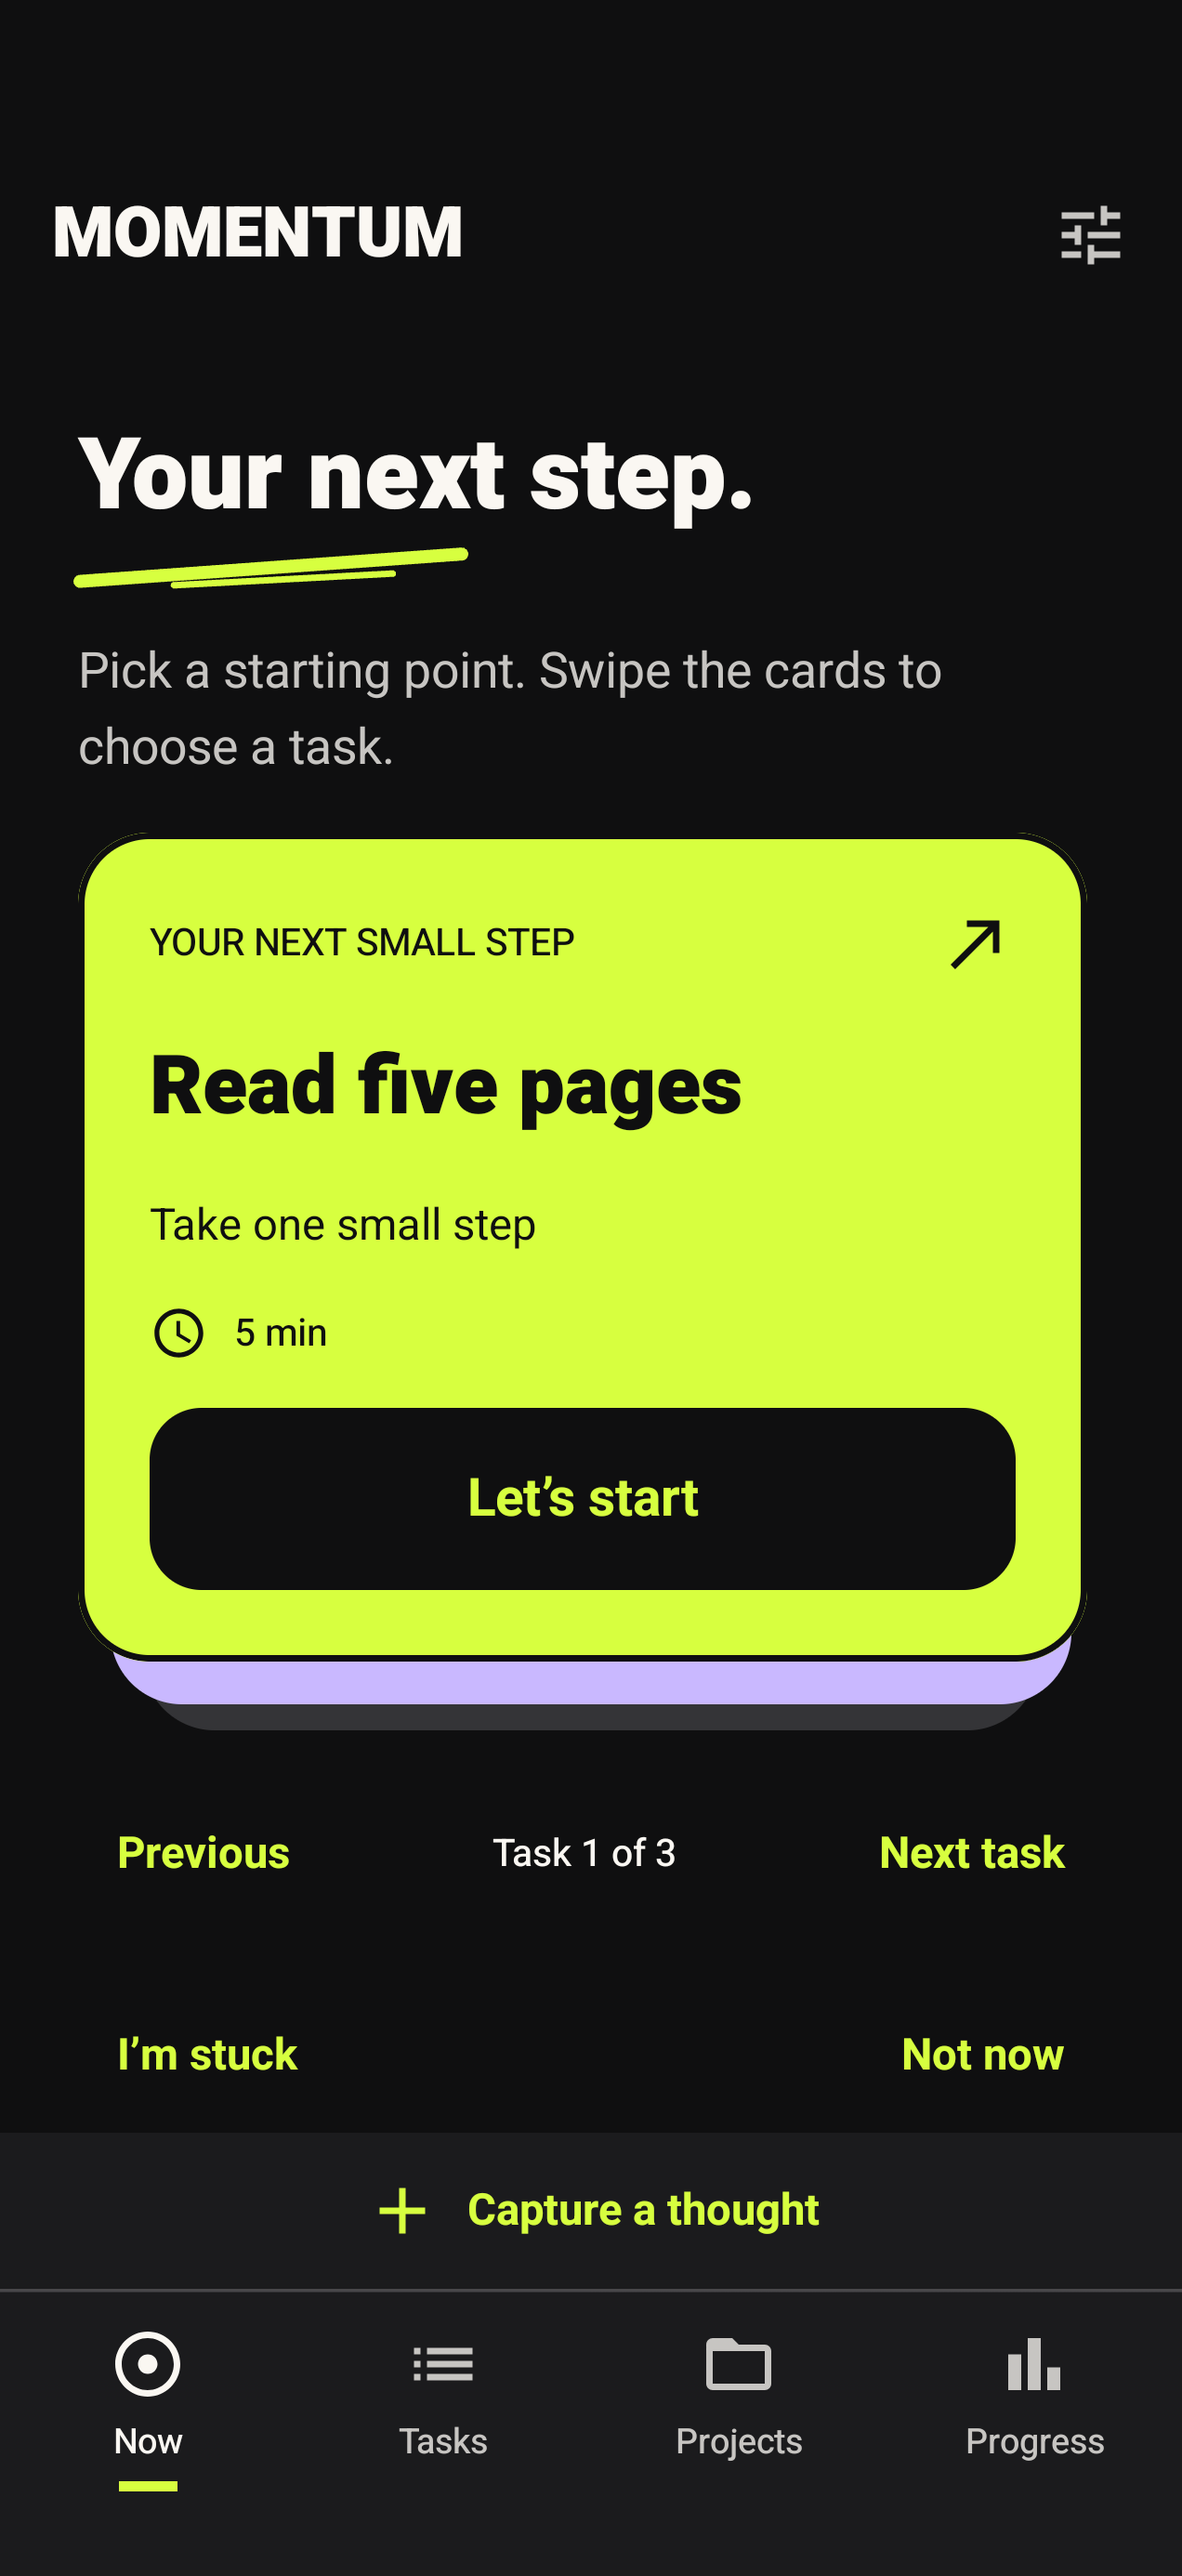
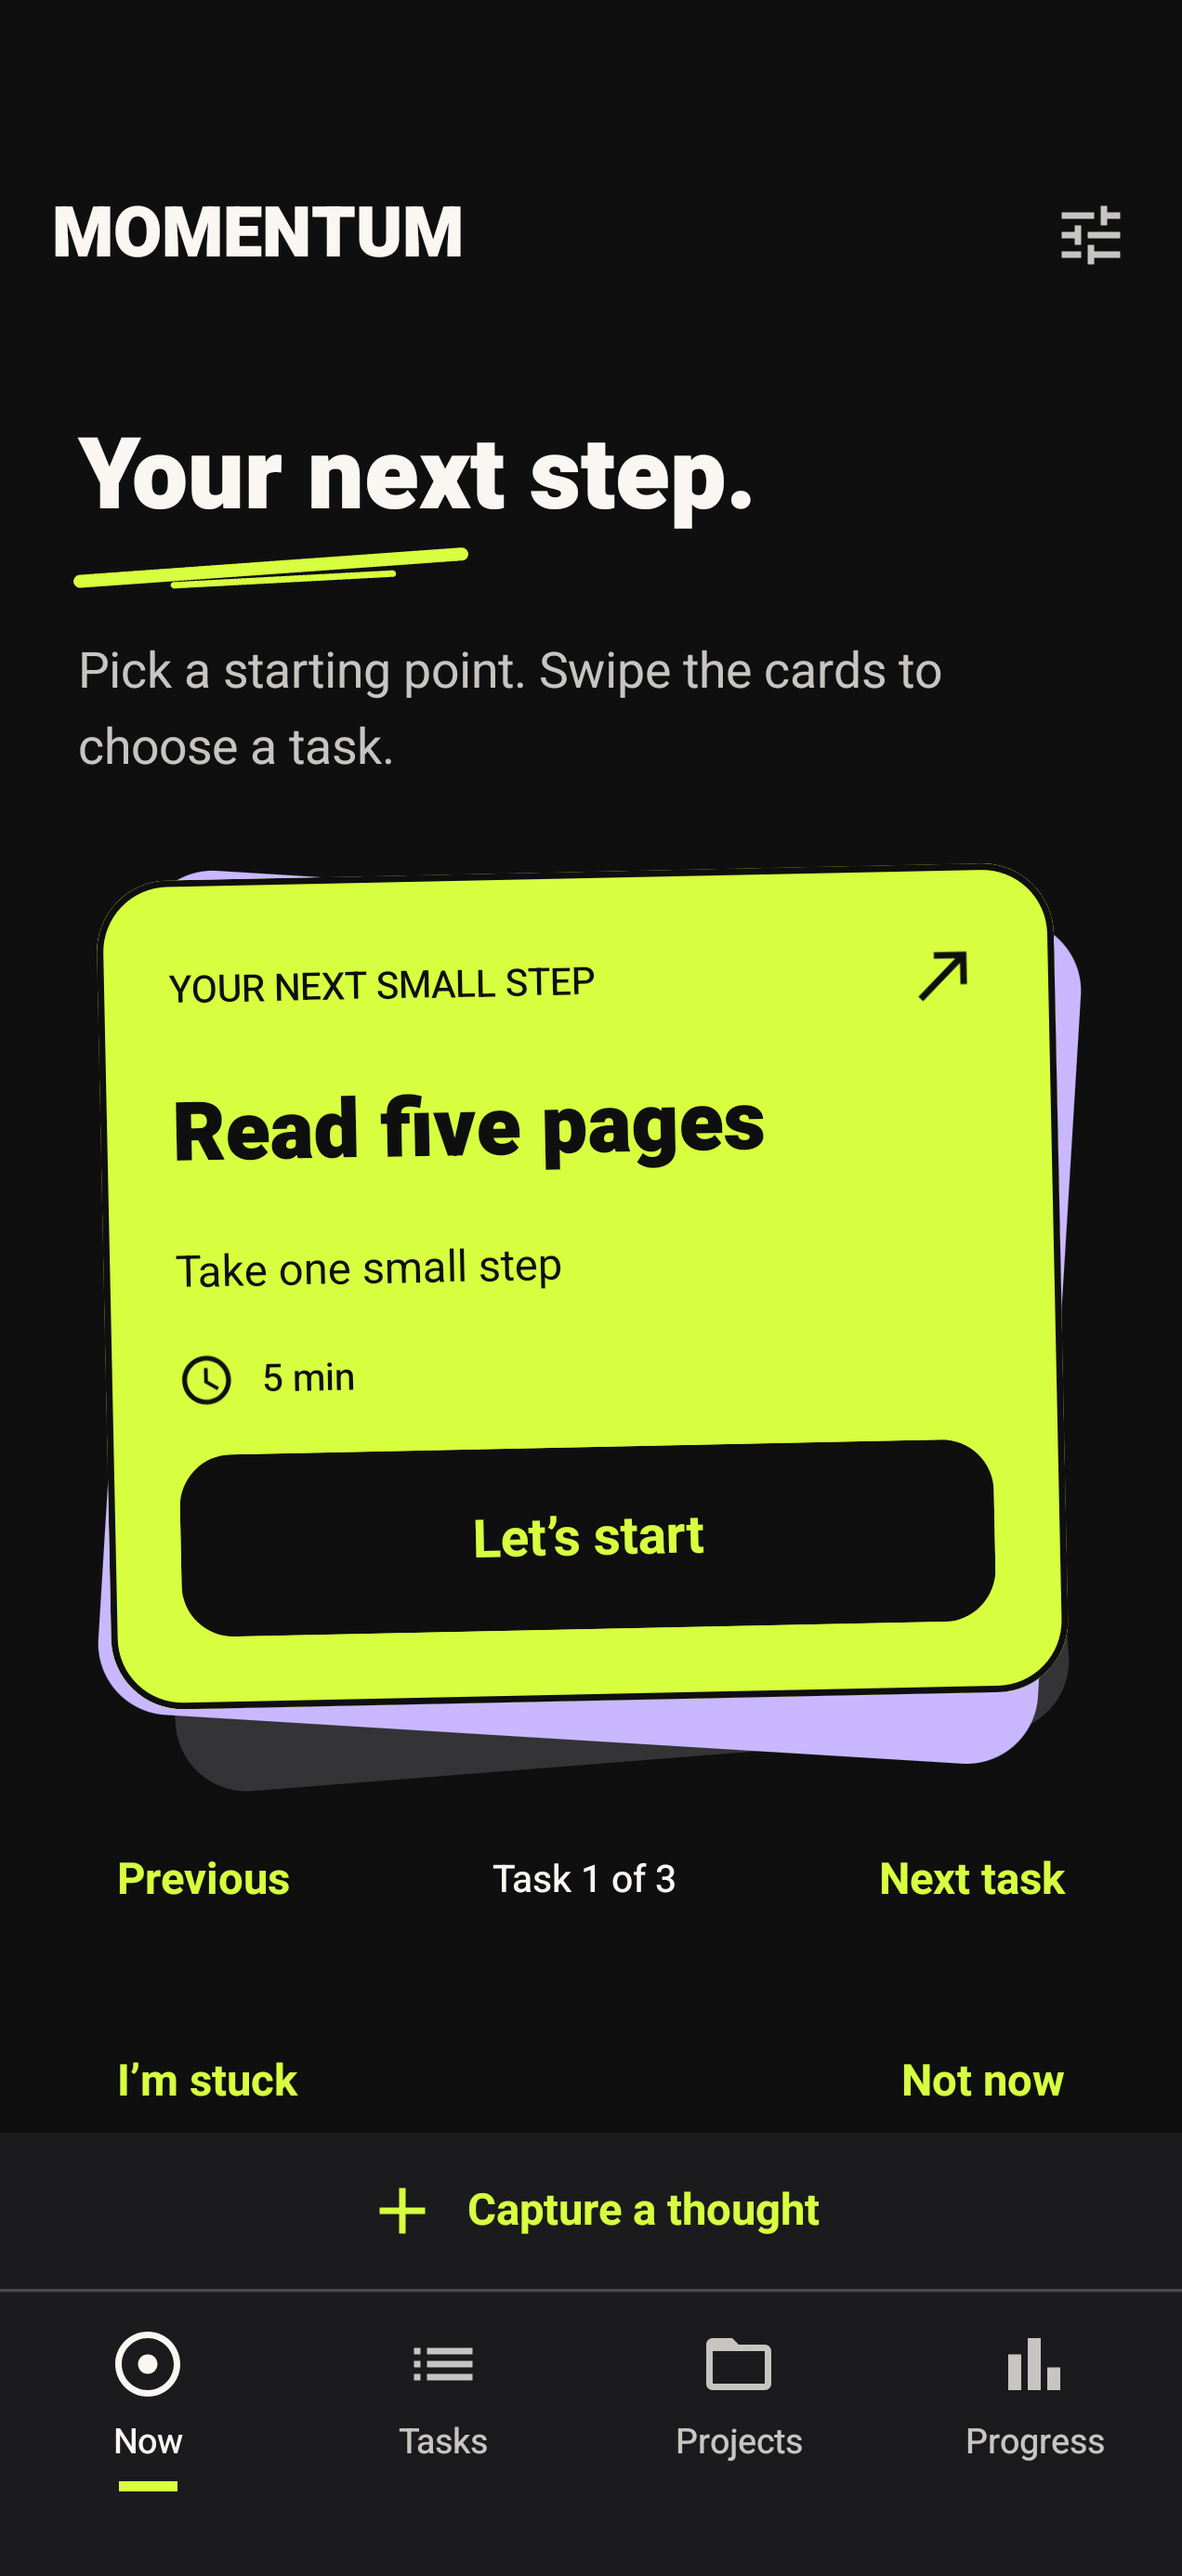
Add tilted cards with finger-following stack transitions

diff --git a/app/src/main/java/com/momentum/app/NowScreen.kt b/app/src/main/java/com/momentum/app/NowScreen.kt
@@ -1,5 +1,9 @@
 package com.momentum.app
 import androidx.compose.animation.*
+import androidx.compose.animation.core.*
+import androidx.compose.ui.graphics.graphicsLayer
+import androidx.compose.ui.graphics.drawscope.rotate
+import androidx.compose.ui.layout.onSizeChanged
 import androidx.compose.foundation.*
 import androidx.compose.foundation.gestures.detectHorizontalDragGestures
 import androidx.compose.ui.input.pointer.pointerInput
@@ -70,7 +74,13 @@ import java.time.LocalTime
  var selectedTaskId by rememberSaveable {mutableStateOf<String?>(null)}
  val deckIndex=deck.indexOfFirst{it.id==selectedTaskId}.coerceAtLeast(0)
  val primary=deck.getOrNull(deckIndex)
- fun nextCard(delta:Int){if(deck.isNotEmpty())selectedTaskId=deck[(deckIndex+delta+deck.size)%deck.size].id}
+ var slideDirection by remember {mutableIntStateOf(1)}
+ var dragOffset by remember {mutableFloatStateOf(0f)}
+ var dragging by remember {mutableStateOf(false)}
+ var stackWidth by remember {mutableFloatStateOf(1f)}
+ val visualDrag by animateFloatAsState(if(prefs.reducedMotion)0f else dragOffset,animationSpec=if(dragging || prefs.reducedMotion)snap() else spring(dampingRatio=.8f,stiffness=500f),label="card follows finger")
+ fun nextCard(delta:Int){if(deck.isNotEmpty()){slideDirection=delta;selectedTaskId=deck[(deckIndex+delta+deck.size)%deck.size].id}}
+ LaunchedEffect(primary?.id){dragOffset=0f;dragging=false}
  val direction=LocalLayoutDirection.current
  val threshold=with(LocalDensity.current){60.dp.toPx()}
  val stackColor=MaterialTheme.colorScheme.secondaryContainer
@@ -79,18 +89,29 @@ import java.time.LocalTime
  Page(spacing=14.dp) {
   Column {Text(tr(R.string.home_heading),style=MaterialTheme.typography.headlineLarge);InkUnderline()}
   Text(tr(when{tasks.isEmpty()->R.string.home_empty_intro;deck.size>1->R.string.stack_intro;resume?.task?.id==primary?.id && resume!=null->R.string.home_resume_intro;primary!=null->R.string.home_ready_intro;else->R.string.home_choose_intro}),color=MaterialTheme.colorScheme.onSurfaceVariant)
-  Box(Modifier.fillMaxWidth().testTag("starterStack").padding(bottom=if(deck.size>1)16.dp else 0.dp).drawBehind{
+  Box(Modifier.fillMaxWidth().testTag("starterStack").padding(horizontal=if(deck.size>1)8.dp else 0.dp,vertical=if(deck.size>1)12.dp else 0.dp).onSizeChanged{stackWidth=it.width.toFloat().coerceAtLeast(1f)}.drawBehind{
    if(deck.size>1){
-    if(deck.size>2)drawRoundRect(backColor,Offset(20.dp.toPx(),16.dp.toPx()),Size((size.width-40.dp.toPx()).coerceAtLeast(0f),size.height),CornerRadius(22.dp.toPx()))
-    drawRoundRect(stackColor,Offset(10.dp.toPx(),8.dp.toPx()),Size((size.width-20.dp.toPx()).coerceAtLeast(0f),size.height),CornerRadius(22.dp.toPx()))
+    if(deck.size>2)rotate(-4.5f){drawRoundRect(backColor,Offset(12.dp.toPx(),14.dp.toPx()),Size((size.width-24.dp.toPx()).coerceAtLeast(0f),size.height),CornerRadius(22.dp.toPx()))}
+    rotate(3.5f){drawRoundRect(stackColor,Offset(5.dp.toPx(),7.dp.toPx()),Size((size.width-10.dp.toPx()).coerceAtLeast(0f),size.height),CornerRadius(22.dp.toPx()))}
    }
   }.pointerInput(deck.map{it.id},deckIndex,direction){
    var distance=0f
-   detectHorizontalDragGestures(onDragStart={distance=0f},onDragCancel={distance=0f},onDragEnd={
+   detectHorizontalDragGestures(onDragStart={distance=0f;dragging=true},onDragCancel={distance=0f;dragging=false;dragOffset=0f},onDragEnd={
     if(kotlin.math.abs(distance)>threshold){val forward=if(direction==LayoutDirection.Ltr)distance<0 else distance>0;nextCard(if(forward)1 else -1)}
-   }){change,amount->if(deck.size>1){change.consume();distance+=amount}}
+    dragging=false;dragOffset=0f
+   }){change,amount->if(deck.size>1){change.consume();distance+=amount;dragOffset=distance.coerceIn(-stackWidth*.65f,stackWidth*.65f)}}
   }){
-  AnimatedContent(targetState=primary?.id,label="next invitation",transitionSpec={if(prefs.reducedMotion)EnterTransition.None togetherWith ExitTransition.None else fadeIn() togetherWith fadeOut()}) {id->
+  AnimatedContent(targetState=primary?.id,modifier=Modifier.graphicsLayer{
+   translationX=visualDrag
+   rotationZ=if(prefs.reducedMotion || deck.size<2)0f else -1.2f+(visualDrag/stackWidth)*12f
+  },label="starter card slide",transitionSpec={
+   if(prefs.reducedMotion || initialState==null || targetState==null)EnterTransition.None togetherWith ExitTransition.None
+   else {
+    val sign=slideDirection*(if(direction==LayoutDirection.Ltr)1 else -1)
+    ((slideInHorizontally(spring(dampingRatio=.85f,stiffness=450f)){sign*it/2}+fadeIn(tween(220))) togetherWith
+     (slideOutHorizontally(tween(220)){-sign*it}+fadeOut(tween(180)))).using(SizeTransform(clip=false))
+   }
+  }) {id->
    val t=deck.firstOrNull{it.id==id}
    if(t!=null)ActionPanel {
     Row(Modifier.fillMaxWidth(),verticalAlignment=Alignment.CenterVertically,horizontalArrangement=Arrangement.SpaceBetween) {

diff --git a/app/src/androidTest/java/com/momentum/app/StarterStackDeviceTest.kt b/app/src/androidTest/java/com/momentum/app/StarterStackDeviceTest.kt
@@ -18,10 +18,18 @@ class StarterStackDeviceTest {
   compose.onRoot().captureToImage().asAndroidBitmap().let{b->File(app.filesDir,"starter-stack.png").outputStream().use{b.compress(Bitmap.CompressFormat.PNG,100,it)}}
   compose.onNodeWithTag("stackNext").performScrollTo().performClick();waitText("Task 2 of 3");compose.onNodeWithText("Write the opening paragraph").assertExists()
   compose.onNodeWithTag("stackPrevious").performScrollTo().performClick();waitText("Task 1 of 3")
-  compose.onNodeWithTag("starterStack").performTouchInput{swipeLeft()};waitText("Task 2 of 3")
+  compose.onNodeWithTag("starterStack").performTouchInput{swipe(androidx.compose.ui.geometry.Offset(width*.8f,centerY),androidx.compose.ui.geometry.Offset(width*.2f,centerY),400)};waitText("Task 2 of 3")
   runBlocking{assertTrue(app.db.dao().allTasks().all{it.status=="READY" && it.available==0L});assertFalse(app.db.dao().allEvents().any{it.kind in setOf("started","postponed","completed")})}
   compose.onNodeWithTag("homePrimary").performScrollTo().performClick();waitText("I’m done")
   assertEquals("IN_PROGRESS",runBlocking{app.db.dao().task("stack-1")!!.status});assertEquals("READY",runBlocking{app.db.dao().task("stack-0")!!.status})
+ }
+ @Test fun shortDragReturnsAndReducedMotionStillNavigates(){
+  waitText("Task 1 of 3")
+  compose.onNodeWithTag("starterStack").performTouchInput{swipe(center,center+androidx.compose.ui.geometry.Offset(-25f,0f),300)}
+  compose.mainClock.advanceTimeBy(1000);compose.onNodeWithText("Task 1 of 3").assertExists()
+  runBlocking{app.prefs.bool("reducedMotion",true)}
+  compose.onNodeWithTag("stackNext").performScrollTo().performClick();waitText("Task 2 of 3")
+  runBlocking{app.prefs.bool("reducedMotion",false)}
  }
  @Test fun removingVisibleCardLeavesValidSelection(){
   waitText("Task 1 of 3");compose.onNodeWithTag("stackNext").performScrollTo().performClick();waitText("Task 2 of 3")

diff --git a/README.md b/README.md
@@ -32,7 +32,7 @@ These are real Android app captures with synthetic example content. Light theme 
 
 ## A stack of starting points
 
-Swipe the opening cards to choose from up to five tasks. Your unfinished work comes first, followed by suggestions from your own tasks. Previous/Next buttons offer the same control. Browsing does not change a task; press Start when you are ready.
+Swipe the loosely stacked cards to choose from up to five tasks. The front card follows your finger, then slides away as the next one moves into place. Your unfinished work comes first, followed by suggestions from your own tasks. Previous/Next buttons offer the same control. Browsing does not change a task; press Start when you are ready.
 
 <details><summary>See the starter-task stack</summary>
 
@@ -105,8 +105,8 @@ Download the APK from the [latest release](https://github.com/Uriel1010/momentum
 
 | Download | Choose this when… |
 | --- | --- |
-| **`momentum-4.6-release.apk`** | **You want to use Momentum.** Small, optimized, non-debuggable, private release signing. |
-| `momentum-4.6-qa.apk` | You want a separate developer test app. It has a purple icon and creates a second installation. |
+| **`momentum-4.6.1-release.apk`** | **You want to use Momentum.** Small, optimized, non-debuggable, private release signing. |
+| `momentum-4.6.1-qa.apk` | You want a separate developer test app. It has a purple icon and creates a second installation. |
 | `SHA256SUMS.txt` | You want to verify download integrity. |
 
 Existing users can install the main release over the previous official version. Do not uninstall to work around a signing mismatch; make a backup first and check the signing identity. The optional QA APK is not needed for normal use.

diff --git a/docs/V461_QA_REPORT.md b/docs/V461_QA_REPORT.md
@@ -1,0 +1,7 @@
+# Momentum 4.6.1 — a loose animated card stack
+
+The backing cards have different angles and offsets, while the front card rests at a slight tilt. During a horizontal drag it follows the finger and rotates; releasing a short drag springs back. Advancing slides the outgoing card away and brings the next card in with a spring. Previous/Next trigger the same transition. Reduced motion disables translation, front-card tilt and transitions while retaining navigation.
+
+Seven focused physical Android 16 tests passed: three stack tests and four home journeys. Tests cover browsing without task mutations, swiping across the card face, starting the visible task, removing the selected task, short-drag recovery and reduced-motion navigation. An initial edge-to-edge test missed the tilted card face; the final test swipes within the visible card. The at-rest screenshot was visually reviewed. No manual accessibility or cross-device animation review was performed. Release lint has zero errors.
+
+The signed update installed in place with the same UID, matching APK checksum and successful cold launch. No data was cleared; QA packages were removed. The preceding 4.6 report covers broader regressions.
